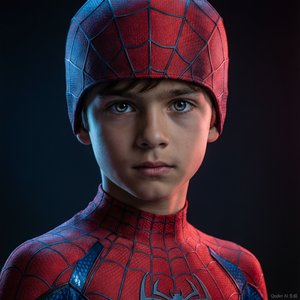
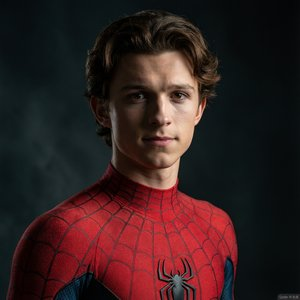
视觉资源核验修正(R-01~R-07)：explore SPECIAL 3条rival改ally+删thor-odin断链+补8条战友ally(19条,tony中心18条零误标)；movies avengers+thanos/civil-war+clint(数据一致性)；peter/steve头像设计替换+压缩300²上传CDN；5张截图重渲染；派生验证tony中心全对

diff --git a/mcu-miniprogram/pages/explore/explore.js b/mcu-miniprogram/pages/explore/explore.js
@@ -49,20 +49,29 @@ const FILTERS = [
   { key: 'family', label: '家人' }
 ];
 
-/* ---- 预定义特殊关系基础表（VDS §5.4 示例 8 条 + 已验证补充 4 条；完整 92 条待 GPT） ---- */
+/* ---- 预定义特殊关系基础表（VDS §5.4 + 设计核验表 R-02~R-04 方案 C 修正：3 条改 ally、删 thor-odin 断链、补 7 条跨阵营战友 ally；完整 92 条待 GPT） ---- */
 const SPECIAL_RELATIONS = [
   { from: 'tony',    to: 'peter',   type: 'mentor' },
-  { from: 'tony',    to: 'steve',   type: 'rival' },
+  { from: 'tony',    to: 'steve',   type: 'ally' },      /* R-02: 核心盟友(内战短暂对立终局和解) */
   { from: 'thor',    to: 'loki',    type: 'family' },
-  { from: 'thor',    to: 'odin',    type: 'family' },
+  /* R-03: 删除 thor-odin（odin 不在 CHARACTERS，断链永不生效） */
   { from: 'steve',   to: 'bucky',   type: 'family' },
   { from: 'natasha', to: 'clint',   type: 'family' },
   { from: 'wanda',   to: 'vision',  type: 'family' },
   { from: 'tony',    to: 'thanos',  type: 'enemy' },
   { from: 'thanos',  to: 'gamora',  type: 'family' },
-  { from: 'strange', to: 'wanda',   type: 'rival' },
+  { from: 'strange', to: 'wanda',   type: 'ally' },      /* R-02: 盟友(偶有紧张非对手) */
   { from: 'wade',    to: 'logan',   type: 'rival' },
-  { from: 'tchalla', to: 'starlord',type: 'rival' }
+  { from: 'tchalla', to: 'starlord',type: 'ally' },      /* R-02: 短暂冲突后结盟 */
+  /* R-04 方案 B：补跨阵营战友 ally（设计核验表 2.2 推荐，修正 auto-derived rival 误标） */
+  { from: 'tony',    to: 'fury',    type: 'ally' },
+  { from: 'tony',    to: 'tchalla', type: 'ally' },
+  { from: 'tony',    to: 'natasha', type: 'ally' },
+  { from: 'tony',    to: 'thor',    type: 'ally' },
+  { from: 'steve',   to: 'tchalla', type: 'ally' },
+  { from: 'steve',   to: 'natasha', type: 'ally' },
+  { from: 'steve',   to: 'thor',    type: 'ally' },
+  { from: 'tony',    to: 'clint',   type: 'ally' }      /* 同类误标一并修正（鹰眼=复联战友，共演4部） */
 ];
 const specialMap = {};
 SPECIAL_RELATIONS.forEach(function (p) {

diff --git a/mcu-miniprogram/data/movies.js b/mcu-miniprogram/data/movies.js
@@ -97,7 +97,7 @@ const MOVIES = [
     mainline: true, starter: true,
     role: '第一阶段的收束点，也是 MCU 商业模式成立的证明：分散的独立电影可以汇成一场集体战役。',
     sf: '洛基入侵地球，尼克·弗瑞召集六位互不对付的英雄组成复仇者联盟。',
-    chars: ['tony', 'steve', 'thor', 'natasha', 'banner', 'clint', 'loki', 'fury'],
+    chars: ['tony', 'steve', 'thor', 'natasha', 'banner', 'clint', 'loki', 'fury', 'thanos'],
     next: {
       mainline: { id: 'winter-soldier', why: '纽约之战让全世界知道了超级英雄的存在，也让神盾局的权力被彻底放大。《冬日战士》正面处理这个后果，是第二阶段质量最高、对主线影响最深的一部。' },
       understand: { id: 'iron-man-3', why: '纽约之战给托尼留下了严重的心理创伤，《钢铁侠3》整部电影都在处理这件事。想理解托尼后来为什么执着于"给地球造一副盔甲"，这部是关键。' }
@@ -185,7 +185,7 @@ const MOVIES = [
     mainline: true, starter: false,
     role: '复仇者的正式解体。它同时完成了三件事：拆散团队、引入蜘蛛侠、引入黑豹——三条后续主线在这一部里同时启动。',
     sf: '一份要求超级英雄接受政府管辖的协议，把复仇者分成了针锋相对的两派。',
-    chars: ['tony', 'steve', 'bucky', 'natasha', 'sam', 'wanda', 'vision', 'scott', 'peter', 'tchalla'],
+    chars: ['tony', 'steve', 'bucky', 'natasha', 'sam', 'wanda', 'vision', 'scott', 'peter', 'tchalla', 'clint'],
     next: {
       mainline: { id: 'infinity-war', why: '内战之后复仇者四分五裂，灭霸恰恰是在他们最散的时候动手的。这个"分裂—被各个击破"的因果，是《无限战争》悲剧性的核心。' },
       understand: { id: 'spider-man-homecoming', why: '托尼在这部里把蜘蛛侠拉进战场，《英雄归来》紧接着回答"这个高中生后来怎么样了"。想搞懂蜘蛛侠和钢铁侠的关系，必须连看。' }

diff --git a/mcu-miniprogram/workspace/gen_explore_vds.js b/mcu-miniprogram/workspace/gen_explore_vds.js
@@ -13,7 +13,7 @@ function toFile(p) {
 }
 
 /* 派生（与 explore.js 一致） */
-const SPECIAL = [ ['tony','peter','mentor'],['tony','steve','rival'],['thor','loki','family'],['thor','odin','family'],['steve','bucky','family'],['natasha','clint','family'],['wanda','vision','family'],['tony','thanos','enemy'],['thanos','gamora','family'],['strange','wanda','rival'],['wade','logan','rival'],['tchalla','starlord','rival'] ];
+const SPECIAL = [ ['tony','peter','mentor'],['tony','steve','ally'],['thor','loki','family'],['steve','bucky','family'],['natasha','clint','family'],['wanda','vision','family'],['tony','thanos','enemy'],['thanos','gamora','family'],['strange','wanda','ally'],['wade','logan','rival'],['tchalla','starlord','ally'],['tony','fury','ally'],['tony','tchalla','ally'],['tony','natasha','ally'],['tony','thor','ally'],['steve','tchalla','ally'],['steve','natasha','ally'],['steve','thor','ally'],['tony','clint','ally'] ];
 const sp = {}; SPECIAL.forEach(p => { sp[p[0]+'|'+p[1]] = p[2]; sp[p[1]+'|'+p[0]] = p[2]; });
 const REL = { ally:{label:'盟友',color:'#4A9EF5'}, enemy:{label:'敌人',color:'#E85D5D'}, mentor:{label:'师徒',color:'#F2B233'}, family:{label:'家人',color:'#9B7FE8'}, rival:{label:'对手',color:'#E85D5D',dash:1} };
 const CAMP = { avengers:'red', asgard:'blue', guardians:'purple', wakanda:'gold', shield:'blue', mutant:'purple', villain:'gray', street:'red' };

diff --git a/mcu-miniprogram/workspace/gen_character_preview.js b/mcu-miniprogram/workspace/gen_character_preview.js
@@ -9,7 +9,7 @@ const { CHARACTERS } = require('../data/characters.js');
 const { TYPE_LABEL } = require('../data/content.js');
 
 const CDN = 'https://mcu-d6gw0brqoa9521b58-1307093647.tcloudbaseapp.com';
-const id = 'tony';
+const id = process.argv[2] || 'tony';   /* 支持 node gen_character_preview.js <charId> */
 const char = mcuData.getChar(id);
 const CAMP_MAP = {
   avengers:'red', guardians:'purple', asgard:'blue', wakanda:'gold',
